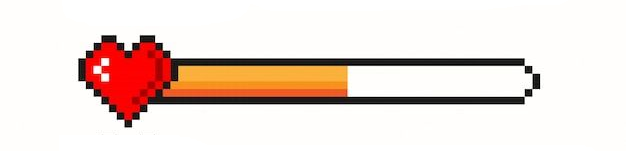
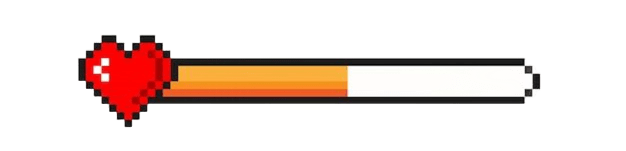
Inserção da área de ataque dos personagens e remoção de fundo das pngs de vida

diff --git a/app/src/main/java/ifsc/joe/domain/impl/Personagem.java b/app/src/main/java/ifsc/joe/domain/impl/Personagem.java
@@ -13,8 +13,9 @@ public abstract class Personagem {
     protected int vidaMax;    // ADICIONADO
     protected int ataque;
     protected int defesa;
+    protected int alcance;
 
-    public Personagem(int x, int y, boolean atacando, Image icone, int vida, int ataque, int defesa) {
+    public Personagem(int x, int y, boolean atacando, Image icone, int vida, int ataque, int defesa, int alcance) {
         this.posX = x;
         this.posY = y;
         this.atacando = atacando;
@@ -23,10 +24,49 @@ public abstract class Personagem {
         this.vidaMax = vida; // vida máxima = valor inicial
         this.ataque = ataque;
         this.defesa = defesa;
+        this.alcance = alcance;
     }
 
     // Cada personagem filho deve chamar desenharVida()
     public abstract void desenhar(Graphics g, JPanel painel);
+
+    protected void desenharAuraAtaque(Graphics g) {
+        if (alcance <= 0) return; // Não desenha se não houver alcance
+
+        // Salva as configurações de cor e traço atuais
+        Graphics2D g2d = (Graphics2D) g;
+        Color corOriginal = g2d.getColor();
+        Stroke tracoOriginal = g2d.getStroke();
+
+        // 1. Configurações para o preenchimento (círculo semi-transparente)
+        // Cor azul clara e semi-transparente (Alpha = 50 de 255)
+        g2d.setColor(new Color(0, 150, 255, 50));
+
+        // Define as coordenadas para desenhar o círculo
+        int diametro = alcance * 2;
+        // Posição ajustada: (X - Raio + Largura/2) e (Y - Raio + Altura/2)
+        int larguraIcone = (icone != null) ? icone.getWidth(null) : 50;
+        int alturaIcone  = (icone != null) ? icone.getHeight(null) : 50;
+
+        int auraX = posX - alcance + larguraIcone / 2;
+        int auraY = posY - alcance + alturaIcone / 2;
+
+        g2d.fillOval(auraX, auraY, diametro, diametro);
+
+        // 2. Configurações para a borda (círculo pontilhado)
+        // Cor azul sólida
+        g2d.setColor(new Color(0, 150, 255, 200));
+
+        // Configura um traço tracejado
+        float[] tracoPontilhado = {5.0f, 5.0f};
+        g2d.setStroke(new BasicStroke(1, BasicStroke.CAP_BUTT, BasicStroke.JOIN_MITER, 10.0f, tracoPontilhado, 0.0f));
+
+        g2d.drawOval(auraX, auraY, diametro, diametro);
+
+        // Restaura as configurações originais
+        g2d.setColor(corOriginal);
+        g2d.setStroke(tracoOriginal);
+    }
 
     protected void desenharVida(Graphics g) {
 

diff --git a/app/src/main/java/ifsc/joe/domain/impl/Cavaleiro.java b/app/src/main/java/ifsc/joe/domain/impl/Cavaleiro.java
@@ -3,7 +3,7 @@ package ifsc.joe.domain.impl;
 import ifsc.joe.Interfaces.ComMontaria;
 import ifsc.joe.Interfaces.Guerreiro;
 import ifsc.joe.enums.Direcao;
-
+import ifsc.joe.ui.Tela;
 import java.util.List;
 import javax.swing.*;
 import java.awt.*;
@@ -13,15 +13,22 @@ public class Cavaleiro extends Personagem implements Guerreiro, ComMontaria {
 
     public static final String IMG_MONTADO = "Cavaleiro";
     public static final String IMG_DESMONTADO = "CavaleiroDesmontado";
+    public static final int RAIO_ATAQUE = 50;
 
     private boolean montado = true;
 
     public Cavaleiro(int x, int y) {
-        super(x, y, false, null, 120, 30, 10);
+        super(x, y, false, null, 120, 30, 10,RAIO_ATAQUE );
     }
 
     @Override
     public void desenhar(Graphics g, JPanel painel) {
+
+        // CORREÇÃO: Usa 'instanceof' para checar e converter com segurança,
+        // resolvendo os erros 'Cannot resolve symbol Tela' e 'getPersonagemAtivo()'
+        if (painel instanceof Tela tela && tela.getPersonagemAtivo() == this) {
+            desenharAuraAtaque(g);
+        }
 
         String nomeImagemBase = montado ? IMG_MONTADO : IMG_DESMONTADO;
 
@@ -33,7 +40,6 @@ public class Cavaleiro extends Personagem implements Guerreiro, ComMontaria {
         g.drawImage(this.icone, this.posX, this.posY, painel);
         desenharVida(g);
     }
-
     @Override
     public void alternarMontado() {
         montado = !montado;
@@ -66,7 +72,7 @@ public class Cavaleiro extends Personagem implements Guerreiro, ComMontaria {
 
     @Override
     public void atacarTodosProximos(List<Personagem> alvos) {
-        final int RAIO_ATAQUE = 50;
+
         this.atacando = true;
 
         alvos.stream()

diff --git a/app/src/main/java/ifsc/joe/domain/impl/Arqueiro.java b/app/src/main/java/ifsc/joe/domain/impl/Arqueiro.java
@@ -3,28 +3,35 @@ package ifsc.joe.domain.impl;
 import ifsc.joe.Interfaces.Guerreiro;
 import ifsc.joe.enums.Direcao;
 import java.util.List;
+import ifsc.joe.ui.Tela;
 import javax.swing.*;
 import java.awt.*;
 import java.util.Objects;
 
 public class Arqueiro extends Personagem implements Guerreiro {
     public static final String NOME_IMAGEM = "Arqueiro";
+    public static final int RAIO_ATAQUE = 100;
 
     public Arqueiro(int x, int y) {
         // vida, ataque, defesa
-        super(x, y, false, null, 80, 20, 5);
+        super(x, y, false, null, 80, 20, 5, RAIO_ATAQUE);
     }
 
     // Desenha o Arqueiro
     @Override
     public void desenhar(Graphics g, JPanel painel) {
+        // Adiciona a lógica para desenhar a aura se o personagem estiver selecionado
+        Tela tela = (Tela) painel;
+        if (tela.getPersonagemAtivo() == this) {
+            desenharAuraAtaque(g); // NOVO
+        }
+
         // verificando qual imagem carregar
         this.icone = this.carregarImagem(NOME_IMAGEM + (atacando ? "2" : ""));
         // desenhando de fato a imagem no pai
         g.drawImage(this.icone, this.posX, this.posY, painel);
         desenharVida(g);
     }
-
     // Método para atacar
     @Override
     public void atacar() {
@@ -33,7 +40,7 @@ public class Arqueiro extends Personagem implements Guerreiro {
 
     @Override
     public void atacarTodosProximos(List<Personagem> alvos) {
-        final int RAIO_ATAQUE = 100; // 100 pixels de distância
+
         this.atacando = true; // Inicia o efeito visual de ataque
 
         alvos.stream()

diff --git a/app/src/main/java/ifsc/joe/ui/PainelControles.java b/app/src/main/java/ifsc/joe/ui/PainelControles.java
@@ -84,18 +84,18 @@ public class PainelControles {
         // A Tela já tem KeyBindings para movimento, ataque e montaria.
         // Aqui vamos adicionar a criação de personagens e a troca de filtro.
 
-        // Criação de Personagens (1, 2, 3)
-        getTela().bind("1", "criaAldeao", () -> {
+        // Criação de Personagens (1, 2, 3) - CORRIGIDO para usar o teclado numérico
+        getTela().bind("NUMPAD1", "criaAldeao", () -> {
             int[] pos = gerarPosicaoAleatoria();
             getTela().adicionarPersonagem(new Aldeao(pos[0], pos[1]));
         });
 
-        getTela().bind("2", "criaArqueiro", () -> {
+        getTela().bind("NUMPAD2", "criaArqueiro", () -> {
             int[] pos = gerarPosicaoAleatoria();
             getTela().adicionarPersonagem(new Arqueiro(pos[0], pos[1]));
         });
 
-        getTela().bind("3", "criaCavaleiro", () -> {
+        getTela().bind("NUMPAD3", "criaCavaleiro", () -> {
             int[] pos = gerarPosicaoAleatoria();
             getTela().adicionarPersonagem(new Cavaleiro(pos[0], pos[1]));
         });

diff --git a/app/src/main/java/ifsc/joe/domain/impl/Aldeao.java b/app/src/main/java/ifsc/joe/domain/impl/Aldeao.java
@@ -6,12 +6,12 @@ import javax.swing.*;
 import java.awt.*;
 import java.util.Objects;
 
-public class Aldeao extends Personagem implements Coletador {
+public class    Aldeao extends Personagem implements Coletador {
     public static final String NOME_IMAGEM = "aldeao";
 
     public Aldeao(int x, int y) {
         // vida, ataque, defesa
-        super(x, y, false, null, 100, 0, 5);
+        super(x, y, false, null, 100, 0, 5, 0);
     }
 
     @Override
